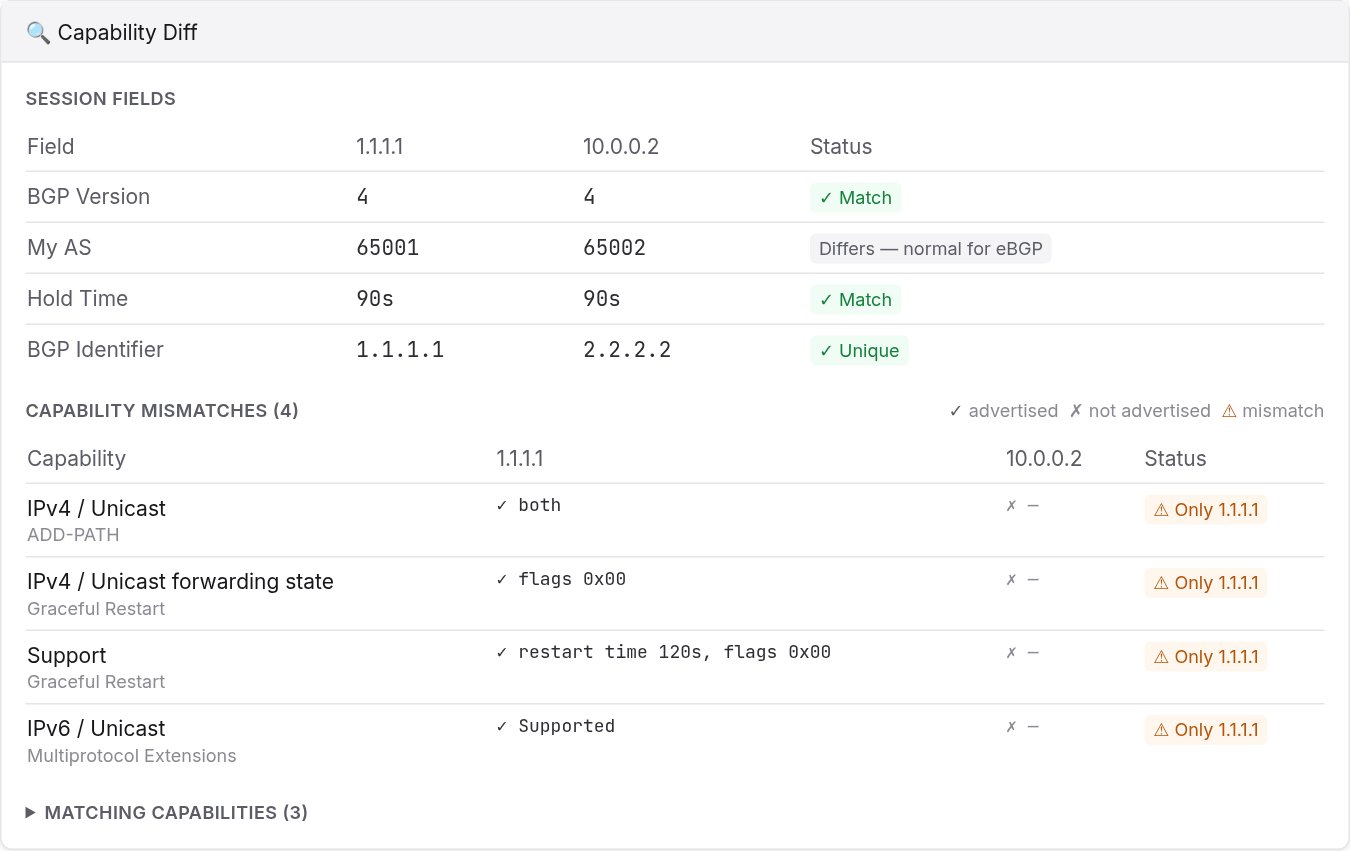
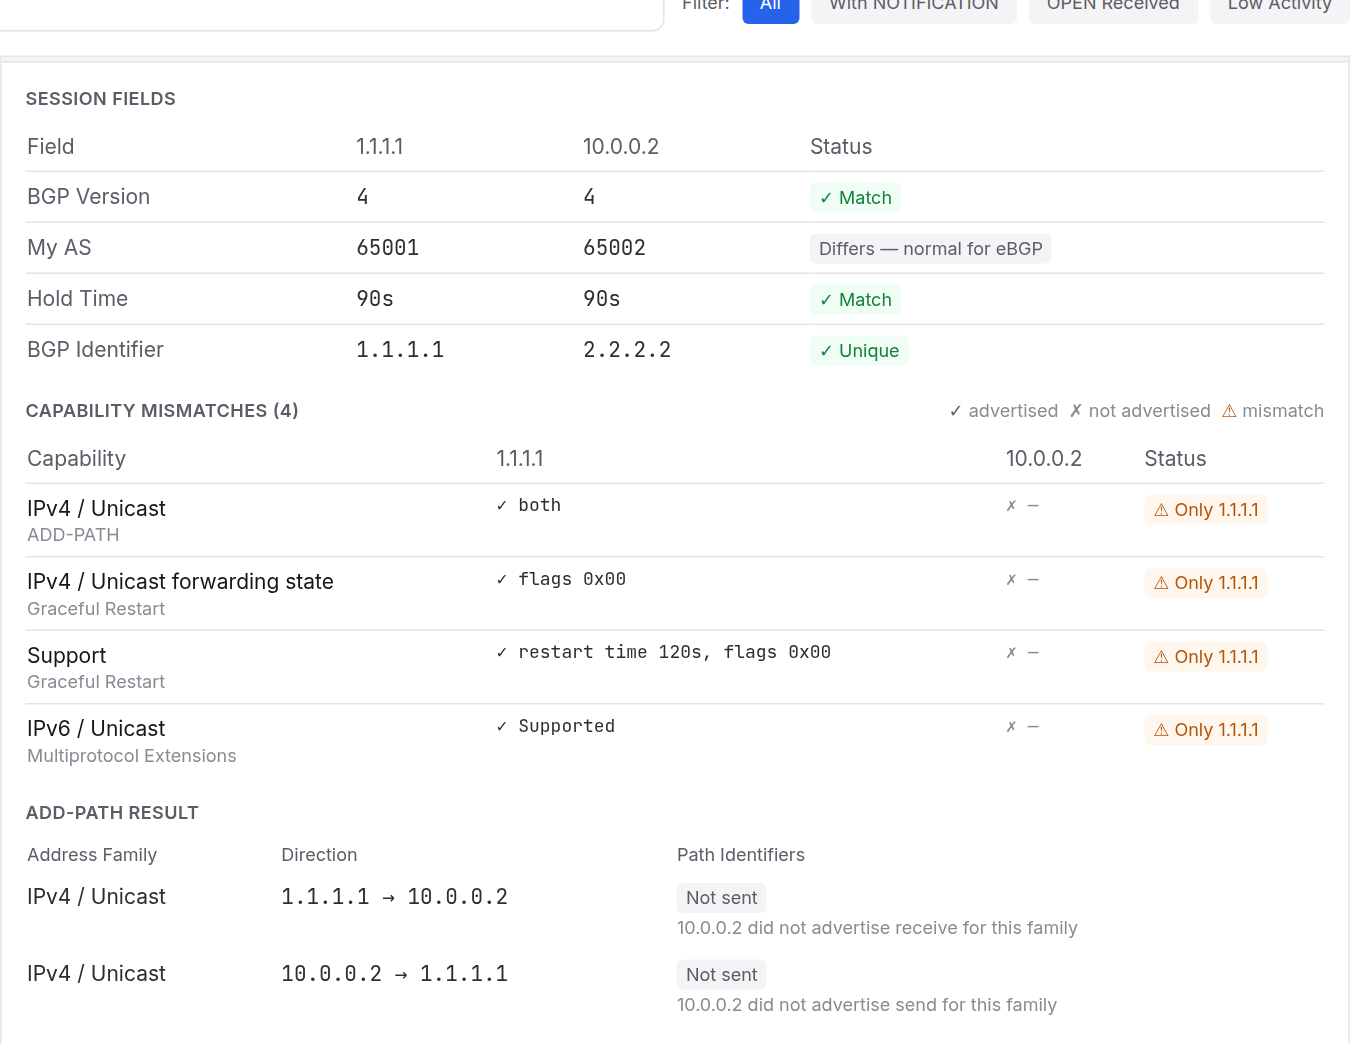
Document ADD-PATH: the decoding rules and the screens that show it
design.md gains the table of what the UPDATE parser does about Path
Identifiers in each situation — negotiated, undecidable one way,
undecidable both ways — and the ADD-PATH Result section under the
capability diff.

Both manuals gain a symptom section for the complaint this answers ("only
one path arrives, though the peer has several"), and a bullet under "if
the capture looks wrong" about what a capture started mid-session cannot
tell you. The Japanese heading carries the English anchor, so the link
works in either language.

s2-capability-diff.png is regenerated: that capture has ADD-PATH
advertised by one side only, so the new section is now on the screen the
screenshot is of.

Claude-Session: https://claude.ai/code/session_01KESQ4VADpuQqGuYQBcHPde

diff --git a/docs/design.md b/docs/design.md
@@ -173,6 +173,34 @@ Path attributes parsed into structured values:
 NLRI and withdrawn routes are expanded per prefix, including IPv6 prefixes carried
 in MP_REACH_NLRI / MP_UNREACH_NLRI.
 
+**ADD-PATH Path Identifiers (RFC 7911).** Whether each NLRI entry is preceded by a
+4-byte Path Identifier is settled in the OPEN and invisible in the UPDATE, so reading
+an UPDATE without the session is a guess — and a wrong guess is not a parse failure.
+The identifier's four bytes become a prefix length and an address, every fabricated
+length is legal, and the prefix-length guard never trips: measured on a capture with
+the OPENs removed, three announced prefixes decoded as fourteen, five of them
+0.0.0.0/0, with no warning.
+
+| Situation | Behaviour |
+|---|---|
+| Both OPENs captured | The negotiated answer, per direction and AFI/SAFI (`addPathDirections`). Nothing is guessed and nothing is said. |
+| OPENs missing, one reading fits | That reading, and a warning naming it — usually only one consumes the block exactly, the same test `asPathFits` applies to AS width. |
+| OPENs missing, both fit, plain invents default routes | Read as ADD-PATH, with a warning. A small Path Identifier is mostly zero bytes and a zero byte is a default route; one UPDATE does not carry several 0.0.0.0/0. |
+| OPENs missing, both fit, nothing to choose by | The plain reading, declared a guess. |
+| Neither reading fits | Neither is claimed; the prefix-length validation reports what is actually wrong. |
+
+The identifier is kept on the prefix rather than stepped over, because two paths to one
+prefix are two routes: it is shown on the packet detail's prefix chips and as a Path ID
+column in the route history, which appears only when the selected route carries one. A
+withdraw of one path otherwise reads as the prefix going away.
+
+`UpdateDecoding.addPath` is `ReadonlySet<string> | null`, mirroring `fourByteAs`, so
+"the OPENs ruled it out" and "the OPENs were not captured" are different values —
+collapsing them into an empty set is what made the mis-decode silent.
+
+Warnings raised while parsing an UPDATE are attached to the packet, alongside the
+marker and message-length warnings, and surface in the parser-warning banner.
+
 #### 2.1.8 Analysis Views
 - **Dashboard** (`/dashboard`): summary counts, severity-sorted alerts (§2.1.14),
   neighbor table and a message timeline. Aggregations are computed in memory, so the
@@ -227,6 +255,16 @@ side-by-side diff of the two OPEN messages exchanged on that session
   within one OPEN are deduplicated.
 - Mismatches are listed before matches, since that's what an operator troubleshooting a
   session is scanning for.
+- **ADD-PATH gets a result as well as a diff.** Comparing advertisements does not answer
+  the question for a capability that is directional and negotiated crosswise: identifiers
+  flow one way only if the sender advertised *send* and the receiver advertised *receive*.
+  Two routers both configured to send them advertise the same family, diff as a match, and
+  exchange no Path Identifiers at all. So an **ADD-PATH Result** section states the outcome
+  per direction and AFI/SAFI, naming which half of the exchange is missing when it is not
+  negotiated. It appears only when both OPENs were captured — half an exchange cannot
+  answer a crosswise question — and only when at least one side asked for ADD-PATH.
+  The negotiation itself lives in `addPathDirections` (`lib/bgp/session.ts`), which the
+  UPDATE decoder also calls, so the screen and the prefixes on it cannot disagree.
 - A missing OPEN on one or both sides is handled without breaking the page (one-sided
   comparison notice, or an empty-state message when neither side has one).
 

diff --git a/src/pages/manual/manual.ja.md b/src/pages/manual/manual.ja.md
@@ -37,6 +37,12 @@ BGPShark はパケットキャプチャを読み、その中の BGP セッショ
 - **TCP レベルのフレームは既定で隠れています。** パケット一覧は **All Packets** に
   切り替えるまで BGP しか表示しません。ファイアウォールに殺されたセッションは、そこに
   `[R]` フレームとして現れ、他のどこにも現れません。
+- **セッションの途中から始まったキャプチャには OPEN がありません。** そして UPDATE の
+  エンコーディングのいくつかは、その OPEN で合意されています — AS_PATH が 2 バイト AS を
+  持つのか 4 バイト AS を持つのか、各経路が ADD-PATH の Path Identifier を伴うのか。
+  どちらも UPDATE 自体には現れません。BGPShark は必要なときメッセージの構造そのものから
+  それを推定し、推定を事実として提示するのではなく警告バナーでそう述べます。この警告が
+  出ていて、セッション確立前から取り直せるなら、取り直してください。
 
 ## 画面 {#the-screens}
 
@@ -344,6 +350,29 @@ IPv6 prefix — なら、次は上記の Capability Diff です。
 UPDATE が TCP セグメントに分割されているキャプチャでも、あなたが何かする必要はありません。
 セグメントはパース前に再構成され、576バイト MTU での 400 prefix の UPDATE も、ここでは
 400 prefix と数えられます。
+
+### 「ピアは複数の経路を持っているのに、1本しか届かない」 {#only-one-path-arrives-though-the-peer-has-several}
+
+ある prefix に複数の経路を持つルートリフレクタは、ADD-PATH (RFC 7911) がネゴシエート
+されていない限り、クライアントにはそのうちの1本しか送りません。そしてこのネゴシエーションは、
+半分だけ正しく設定してしまいやすいものです。
+
+**Neighbors → ルータ → セッション**、Capability Diff の下にある **ADD-PATH Result**
+を読んでください。方向ごと・アドレスファミリごとに、Path Identifier が実際に送られて
+いるかどうかが書かれています。
+
+このセクションがあるのは、その上の capability の表ではこの問いに答えられないからです。
+この capability は方向性を持ち、たすき掛けでネゴシエートされます — 識別子がある方向に
+流れるのは、送信側が *send* を、受信側が *receive* を広告したときだけです。両端とも
+「送る」設定になっているルータ同士は、同じファミリを広告し、チェックが2つ並び、晴れやかに
+*"No capability mismatches detected"* と表示されます — その裏で、どちらの向きにも
+Path Identifier は1つも流れていません。Result のセクションは、どちら半分が欠けているかを
+名指しします。
+
+ネゴシエートされている場合、識別子は経路の側に出ます。パケット詳細の prefix チップは
+`10.1.0.0/24 path 2` と読め、経路履歴には **Path ID** 列が増えます。この列が、
+*「prefix が withdraw された」* と *「2本ある経路の1本が withdraw され、もう1本は
+生きている」* を分けます — これが無ければ、両者は見分けがつきません。
 
 ### 「トラフィックが違う上流から出ていく」 {#traffic-leaves-by-the-wrong-upstream}
 

diff --git a/src/pages/manual/manual.md b/src/pages/manual/manual.md
@@ -37,6 +37,13 @@ Two things worth knowing before you trust what you see:
 - **TCP-level frames are hidden by default.** The packet list shows BGP only
   until you switch it to **All Packets**. A session killed by a firewall shows
   up as a `[R]` frame there and nowhere else.
+- **A capture that starts mid-session is missing the OPENs**, and the OPENs are
+  where several things about an UPDATE's encoding were agreed — whether AS_PATH
+  holds 2-byte or 4-byte AS numbers, whether each route carries an ADD-PATH Path
+  Identifier. Neither is visible in the UPDATE itself. BGPShark works them out
+  from the message's own structure when it has to, and says so in the warning
+  banner rather than presenting a guess as a reading. If you see such a warning
+  and can re-capture from before the session came up, do.
 
 ## The screens
 
@@ -374,6 +381,30 @@ above is the next stop.
 A capture whose UPDATEs are split across TCP segments needs nothing special
 from you: the segments are reassembled before parsing, and a 400-prefix UPDATE
 at a 576-byte MTU still counts 400 prefixes here.
+
+### “Only one path arrives, though the peer has several”
+
+A route reflector with several paths to a prefix sends its clients one of them
+unless ADD-PATH was negotiated (RFC 7911), and that negotiation is easy to get
+half right.
+
+**Neighbors → the router → the session**, and read the **ADD-PATH Result**
+section under the capability diff. It says, per direction and address family,
+whether Path Identifiers are actually being sent.
+
+The section exists because the capability table above it cannot answer this. The
+capability is directional and negotiated crosswise: identifiers flow one way only
+if the sender advertised *send* and the receiver advertised *receive*. Two
+routers both configured to send them advertise the same family, show two ticks,
+and produce a cheerful *“No capability mismatches detected”* — while nothing on
+the wire carries a Path Identifier in either direction. The result section names
+which half is missing.
+
+When it is negotiated, the identifiers are on the routes. A prefix chip in the
+packet detail reads `10.1.0.0/24 path 2`, and the route history grows a **Path
+ID** column. That column is the difference between *“the prefix was withdrawn”*
+and *“one of its two paths was withdrawn and the other is still up”*, which look
+identical without it.
 
 ### “Traffic leaves by the wrong upstream”
 
